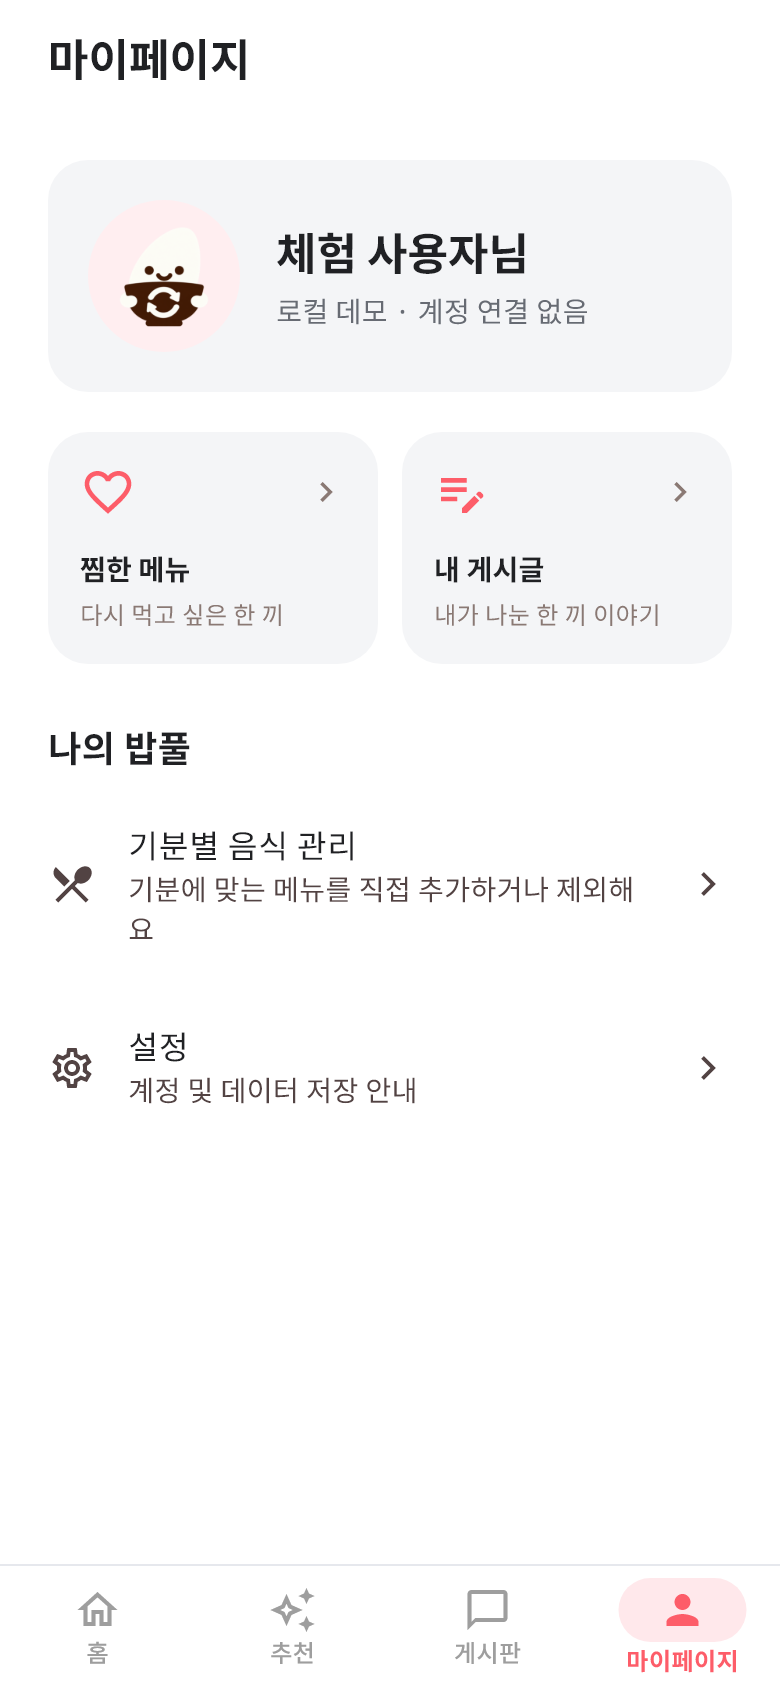
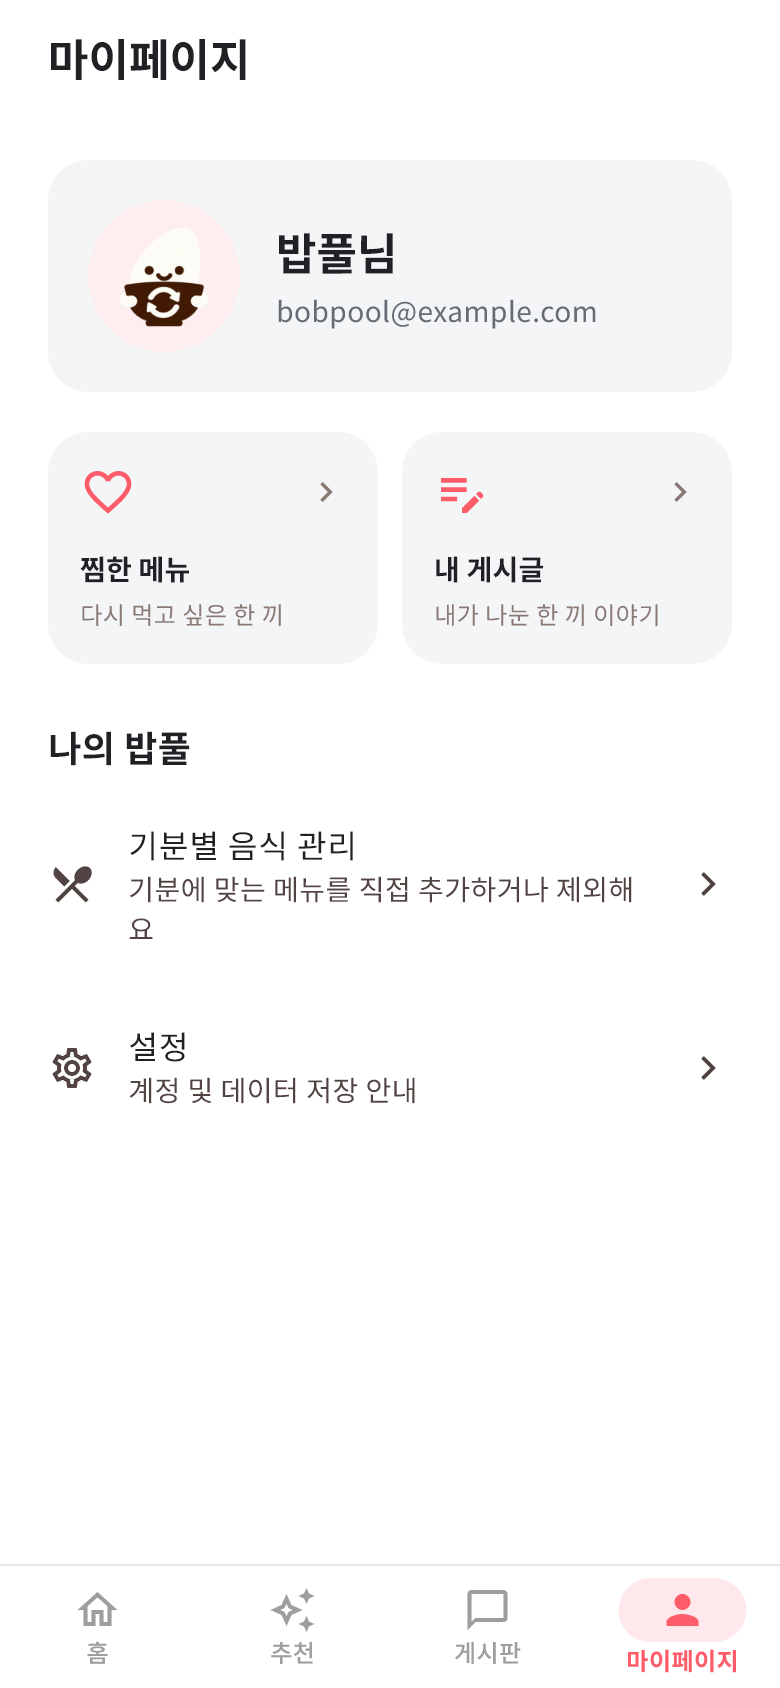
Use main-mode app previews and verify normal UI in CI

Changed region(s): [[0.3385, 0.1232, 0.7385, 0.2156]]

diff --git a/test/visual_refresh_test.dart b/test/visual_refresh_test.dart
@@ -6,6 +6,7 @@ import 'package:flutter/services.dart';
 import 'package:flutter_test/flutter_test.dart';
 import 'package:shared_preferences/shared_preferences.dart';
 import 'package:bp2/core/theme/app_theme.dart';
+import 'package:bp2/core/app_config.dart';
 import 'package:bp2/models/board_page_result.dart';
 import 'package:bp2/models/post_model.dart';
 import 'package:bp2/routes/app_routes.dart';
@@ -20,6 +21,7 @@ import 'package:bp2/services/home_hero_image_service.dart';
 import 'package:bp2/widgets/menu_summary_card.dart';
 import 'package:bp2/widgets/recommendation/bobpool_cooker.dart';
 import 'support/phone_preview.dart';
+import 'support/main_mode_preview.dart';
 
 const captureDirectory = String.fromEnvironment('UI_CAPTURE_DIR');
 final boundaryKey = GlobalKey();
@@ -79,6 +81,7 @@ void main() {
     addTearDown(tester.view.resetPhysicalSize);
     addTearDown(tester.view.resetDevicePixelRatio);
     await tester.runAsync(() async {
+      if (!AppConfig.demoMode) await prepareMainModePreview();
       await LocalRecommendService.getAllMenus();
       final font = FontLoader('NotoSansKR')
         ..addFont(rootBundle.load('assets/fonts/NotoSansKR.ttf'));
@@ -166,6 +169,11 @@ void main() {
     await capture(tester, 'random-current');
     await tester.pumpWidget(app(const HomePage()));
     await tester.pumpAndSettle();
+    if (!AppConfig.demoMode) {
+      expect(find.text('로컬 데모 · 로그인 없이 체험'), findsNothing);
+      expect(find.text('안녕하세요, 밥풀님!'), findsOneWidget);
+      expect(find.text('연결 버전에서 이용 가능'), findsNothing);
+    }
     await tester.runAsync(() async {
       final path = await HomeHeroImageService.instance.imageForSession;
       await precacheImage(
@@ -177,6 +185,12 @@ void main() {
     await capture(tester, 'home-current');
     await tester.pumpWidget(app(const MyPage()));
     await tester.pumpAndSettle();
+    if (!AppConfig.demoMode) {
+      expect(find.text('밥풀님'), findsOneWidget);
+      expect(find.text('bobpool@example.com'), findsOneWidget);
+      expect(find.text('체험 사용자님'), findsNothing);
+      expect(find.text('로컬 데모 · 계정 연결 없음'), findsNothing);
+    }
     await capture(tester, 'mypage-bobpool-profile');
     final posts = [
       PostModel(

diff --git a/test/support/main_mode_preview.dart b/test/support/main_mode_preview.dart
@@ -1,0 +1,51 @@
+import 'package:firebase_core/firebase_core.dart';
+import 'package:firebase_core_platform_interface/test.dart';
+import 'package:firebase_auth_platform_interface/firebase_auth_platform_interface.dart';
+
+/// UI fixture only. This creates no account and makes no Firebase server calls.
+Future<void> prepareMainModePreview() async {
+  setupFirebaseCoreMocks();
+  await Firebase.initializeApp();
+  FirebaseAuthPlatform.instance = _PreviewAuth();
+}
+
+class _PreviewAuth extends FirebaseAuthPlatform {
+  late final UserPlatform _user = _PreviewUser(this);
+
+  @override
+  FirebaseAuthPlatform delegateFor({required FirebaseApp app}) => this;
+
+  @override
+  FirebaseAuthPlatform setInitialValues({
+    InternalUserDetails? currentUser,
+    String? languageCode,
+  }) => this;
+
+  @override
+  UserPlatform get currentUser => _user;
+
+  @override
+  Stream<UserPlatform?> authStateChanges() => Stream.value(_user);
+}
+
+class _PreviewUser extends UserPlatform {
+  _PreviewUser(FirebaseAuthPlatform auth)
+    : super(
+        auth,
+        _PreviewMultiFactor(auth),
+        InternalUserDetails(
+          userInfo: InternalUserInfo(
+            uid: 'readme-preview-user',
+            displayName: '밥풀',
+            email: 'bobpool@example.com',
+            isAnonymous: false,
+            isEmailVerified: true,
+          ),
+          providerData: [],
+        ),
+      );
+}
+
+class _PreviewMultiFactor extends MultiFactorPlatform {
+  _PreviewMultiFactor(super.auth);
+}

diff --git a/README.md b/README.md
@@ -93,13 +93,13 @@
 ### 주요 화면
 
 <p>
-  <img src="docs/images/visual-refresh/phone-home-recommendation.png" width="100%" alt="홈 · 맞춤 추천 · 랜덤 추천">
+  <img src="docs/images/visual-refresh/main-phone-home-recommendation.png" width="100%" alt="홈 · 맞춤 추천 · 랜덤 추천">
 </p>
 
 <br>
 
 <p>
-  <img src="docs/images/visual-refresh/phone-result-community.png" width="100%" alt="추천 결과 · 게시판 · 마이페이지">
+  <img src="docs/images/visual-refresh/main-phone-result-community.png" width="100%" alt="추천 결과 · 게시판 · 마이페이지">
 </p>
 
 <br><br><br>
@@ -236,13 +236,13 @@ Android 7.0 이상에서 사용할 수 있습니다. 서버 연결 APK는 설치
 ### 主な画面
 
 <p>
-  <img src="docs/images/visual-refresh/phone-home-recommendation.png" width="100%" alt="ホーム・条件付き推薦・ランダム推薦">
+  <img src="docs/images/visual-refresh/main-phone-home-recommendation.png" width="100%" alt="ホーム・条件付き推薦・ランダム推薦">
 </p>
 
 <br>
 
 <p>
-  <img src="docs/images/visual-refresh/phone-result-community.png" width="100%" alt="推薦結果・掲示板・マイページ">
+  <img src="docs/images/visual-refresh/main-phone-result-community.png" width="100%" alt="推薦結果・掲示板・マイページ">
 </p>
 
 <br><br><br>
